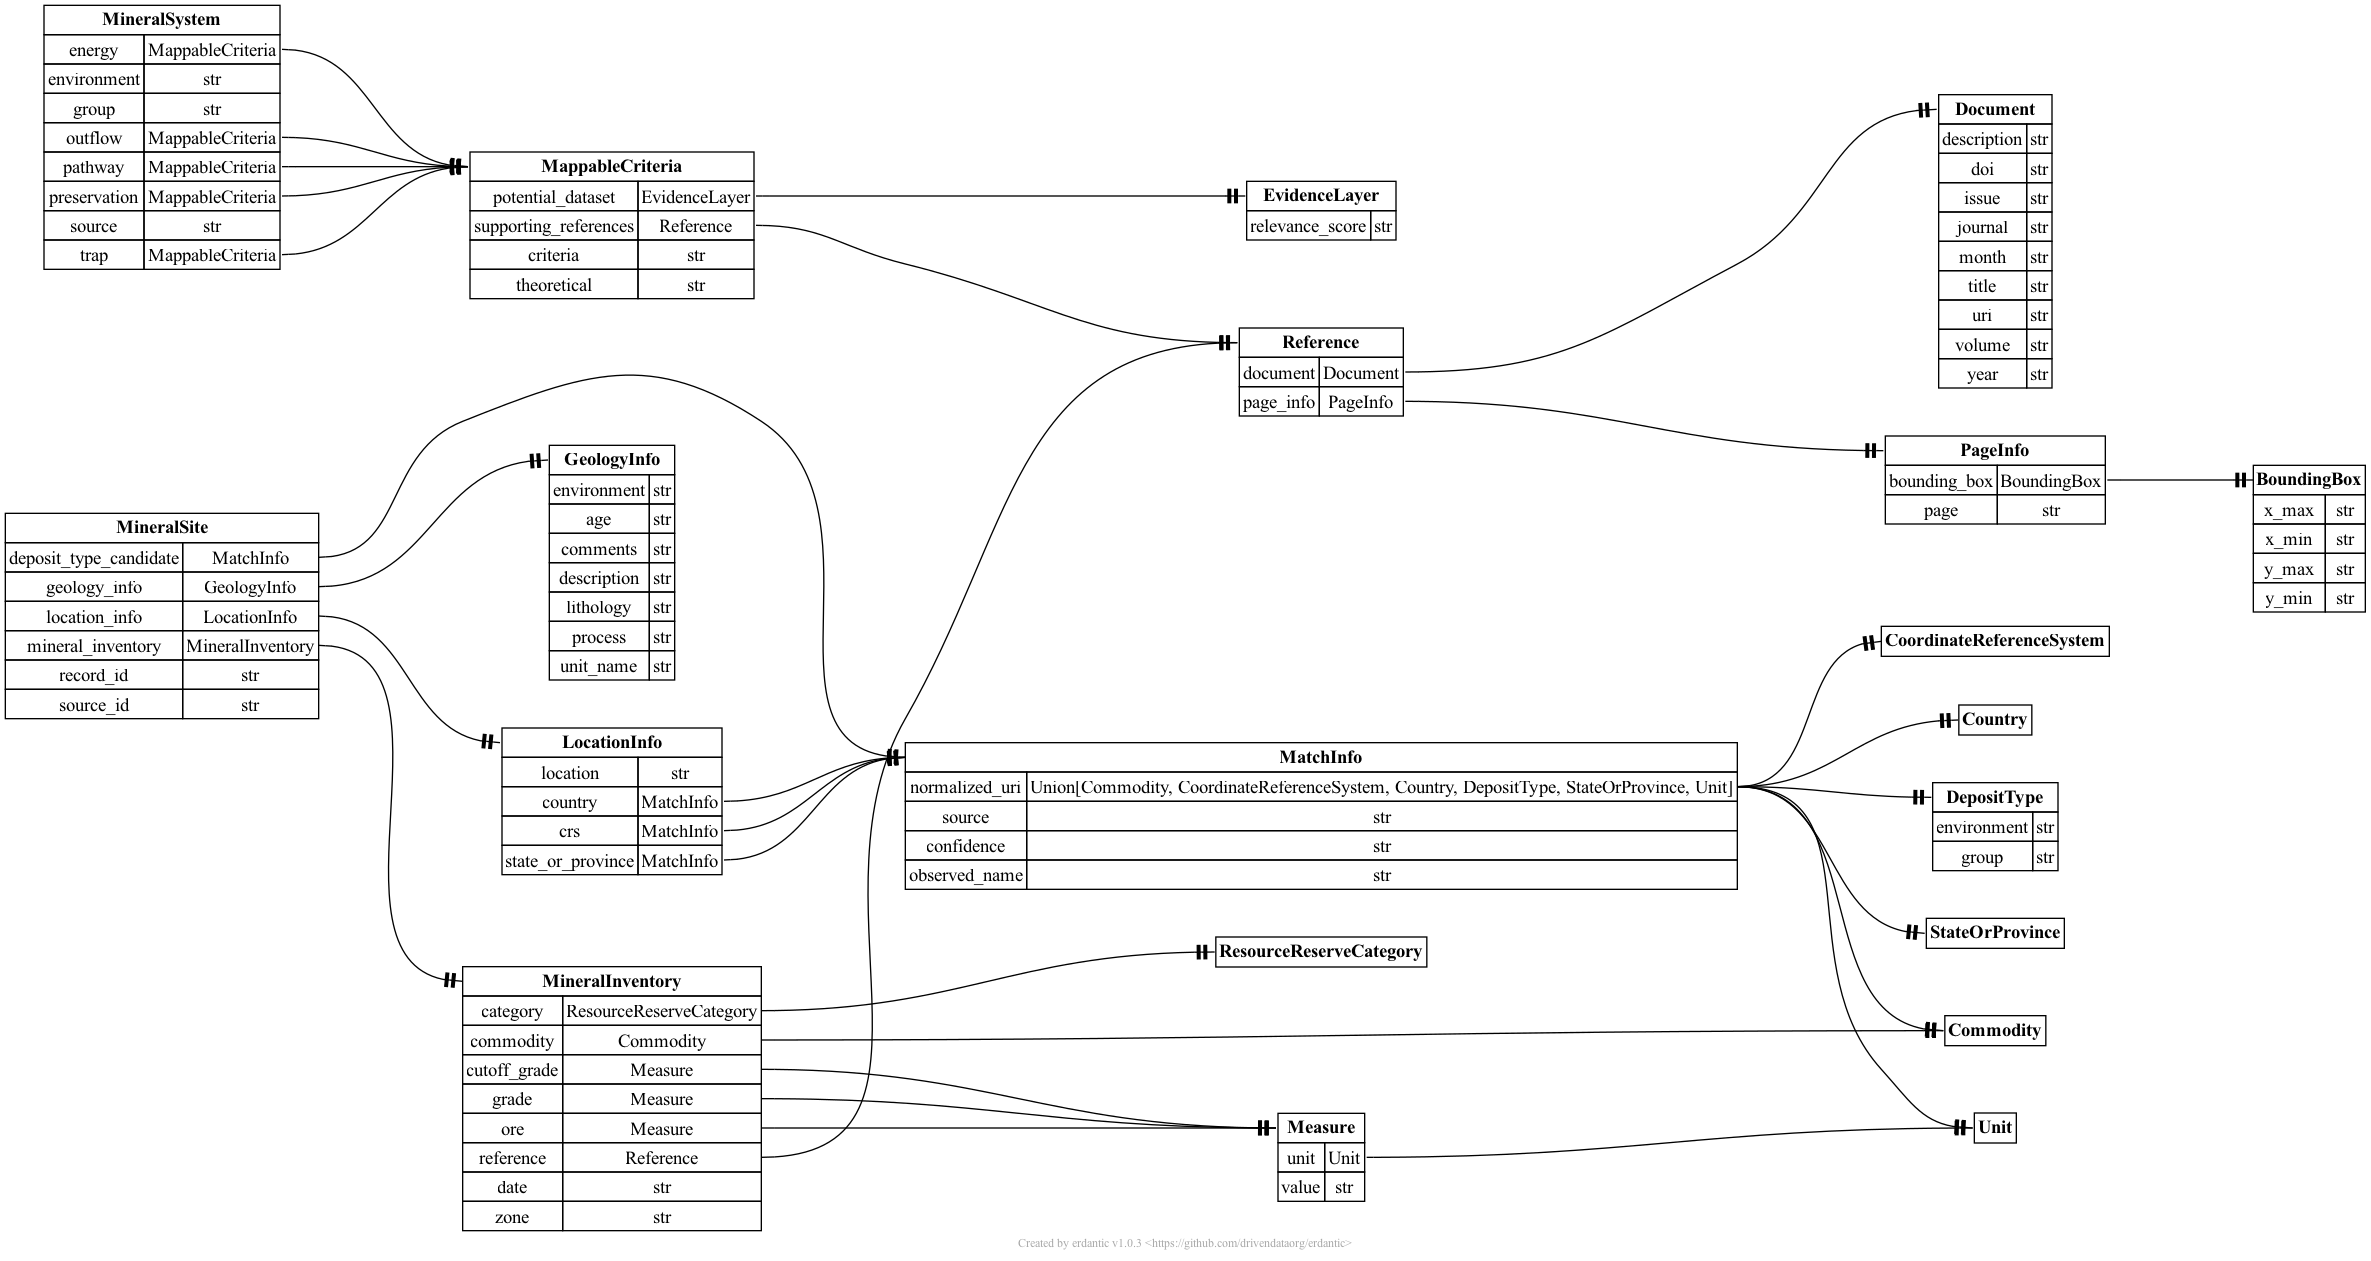
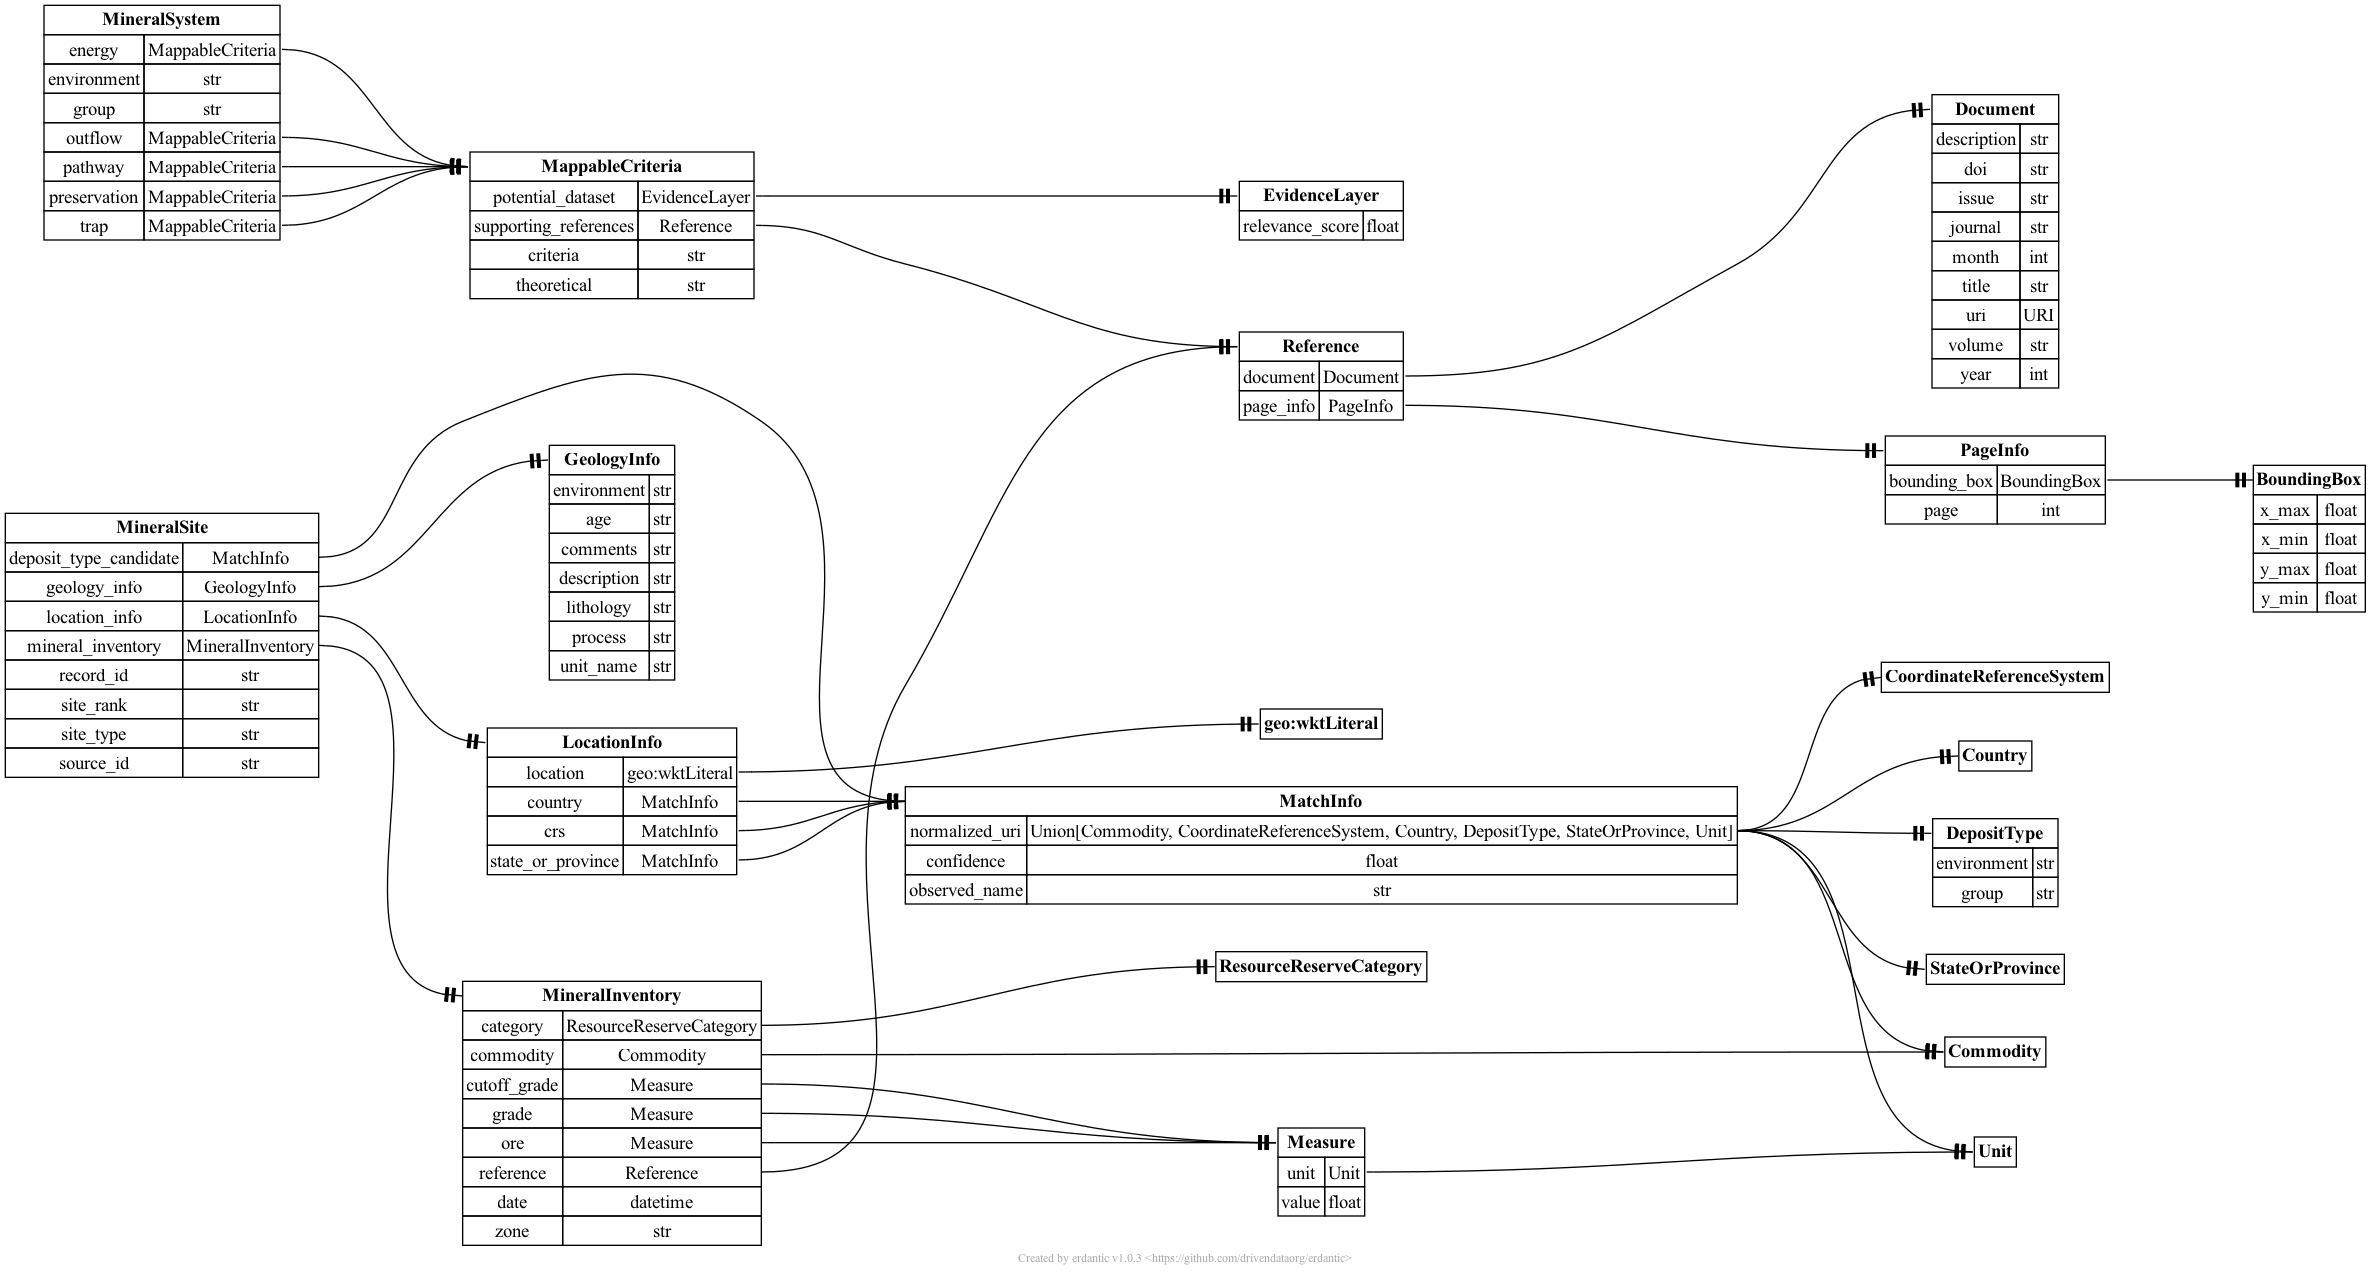
update ontology

diff --git a/schema/make_diagram.py b/schema/make_diagram.py
@@ -1,17 +1,22 @@
+import re
 from collections import defaultdict
 from dataclasses import asdict, dataclass, make_dataclass
+from datetime import datetime
 from graphlib import TopologicalSorter
 from itertools import chain
 from pathlib import Path
-from typing import Union
+from typing import TypeAlias, Union
 
 import erdantic as erd
-from pydantic import BaseModel, Field, create_model
-from rdflib import OWL, RDF, RDFS, XSD, Graph, Namespace, URIRef
+from pydantic import BaseModel, ConfigDict, Field, create_model
+from rdflib import OWL, RDF, RDFS, XSD, BNode, Graph, Literal, Namespace, URIRef
 
 mno = Namespace("https://minmod.isi.edu/ontology/")
 geo = Namespace("http://www.opengis.net/ont/geosparql#")
 hasSubPropertyOf = mno.hasSubPropertyOf
+
+
+class URI(str): ...
 
 
 def get_all_values(g: Graph, s: URIRef, p: URIRef, subItemOf: URIRef):
@@ -45,32 +50,50 @@ def load_ontology():
     return g
 
 
+def read_a_list(g: Graph, s):
+    out: list[URIRef] = []
+    for pred, obj in g.predicate_objects(s):
+        if pred == RDF.rest:
+            out.extend(read_a_list(g, obj))
+        else:
+            assert isinstance(obj, URIRef)
+            out.append(obj)
+    return out
+
+
 def make_er_diagram():
     g = load_ontology()
 
-    models = {}
-
-    # classes = list(g.subjects(RDF.type, OWL.Class))
-    classes = [
-        mno.EvidenceLayer,
-        mno.Document,
-        mno.BoundingBox,
-        mno.PageInfo,
-        mno.Reference,
-        # mno.MappableCriteria,
-    ]
-
+    # get class orders
     edges: dict[URIRef, list[URIRef]] = defaultdict(list)
     for subj in g.subjects(RDF.type, OWL.Class):
-        assert isinstance(subj, URIRef)
+        if not isinstance(subj, URIRef):
+            continue
         for prop in g.subjects(RDFS.domain, subj):
-            if (prop, RDF.type, OWL.DatatypeProperty) in g:
-                continue
             for obj in g.objects(prop, RDFS.range, unique=True):
-                assert isinstance(obj, URIRef)
-                edges[subj].append(obj)
-
+                if isinstance(obj, URIRef):
+                    if obj in mno:
+                        edges[subj].append(obj)
+                else:
+                    assert (obj, OWL.unionOf, None) in g
+                    for sobj in read_a_list(g, next(g.objects(obj, OWL.unionOf))):
+                        if sobj in mno:
+                            edges[subj].append(sobj)
     ts = TopologicalSorter(edges)
+
+    namespaces = list(g.namespaces())
+
+    # get data types
+    datatypes = {}
+    for subj in g.subjects(RDF.type, RDFS.Datatype):
+        ((prefix, ns),) = [
+            (prefix, ns) for prefix, ns in namespaces if str(subj).startswith(ns)
+        ]
+        typename = prefix + ":" + str(subj)[len(ns) :]
+        datatypes[subj] = make_dataclass(typename, [])
+
+    # iterate over classes and create models
+    models = {}
     for subj in ts.static_order():
         clsname = subj[len(mno) :]
         fields = []
@@ -79,39 +102,44 @@ def make_er_diagram():
             if (prop, hasSubPropertyOf, None) in g:
                 continue
             propname = prop[len(mno) :]
-            if (prop, RDF.type, OWL.DatatypeProperty) in g:
-                ranges = set()
-                for obj in g.objects(prop, RDFS.range, unique=True):
-                    assert isinstance(obj, URIRef)
-                    if obj == XSD.string:
-                        ranges.add(str)
-                    elif obj == XSD.integer:
-                        ranges.add(int)
-                    elif obj == XSD.decimal:
-                        ranges.add(float)
-                    elif obj == geo.wktLiteral:
-                        ranges.add("WktLiteral")
-                    else:
-                        raise NotImplementedError()
-                    ranges.add(obj)
-                fields.append((propname, str))
-            else:
-                ranges = [
-                    models[str(obj)[len(mno) :]]
-                    for obj in g.objects(prop, RDFS.range, unique=True)
-                ]
-                fields.append(
-                    (
-                        propname,
-                        Union[tuple(ranges)],
-                    )
-                )
+            ranges = list(g.objects(prop, RDFS.range, unique=True))
+            if len(ranges) > 1:
+                raise Exception("Cannot represent intersection types in pydantic")
+            fields.append((propname, get_field_type(g, models, datatypes, ranges[0])))
 
-        models[clsname] = make_dataclass(clsname, fields, bases=(BaseModel,))
+        models[clsname] = create_model(
+            clsname,
+            **{name: (type, Field()) for name, type in fields},  # type: ignore
+            __config__=ConfigDict(arbitrary_types_allowed=True)
+        )  # type: ignore
 
     graph = erd.create(*list(models.values()))
     graph.draw(out=Path(__file__).parent / "er_diagram.png")
     return
+
+
+def get_field_type(g: Graph, models, datatypes, obj):
+    if obj == XSD.string:
+        return str
+    if obj == XSD.integer:
+        return int
+    if obj == XSD.decimal:
+        return float
+    if obj == XSD.anyURI:
+        return URI
+    if obj == XSD.dateTime:
+        return datetime
+    if isinstance(obj, URIRef) and obj in mno:
+        return models[str(obj)[len(mno) :]]
+    if obj in datatypes:
+        return datatypes[obj]
+    if isinstance(obj, BNode):
+        assert (obj, OWL.unionOf, None) in g
+        types = []
+        for sobj in read_a_list(g, next(g.objects(obj, OWL.unionOf))):
+            types.append(get_field_type(g, models, datatypes, sobj))
+        return Union[tuple(types)]  # type: ignore
+    raise NotImplementedError(obj)
 
 
 if __name__ == "__main__":
